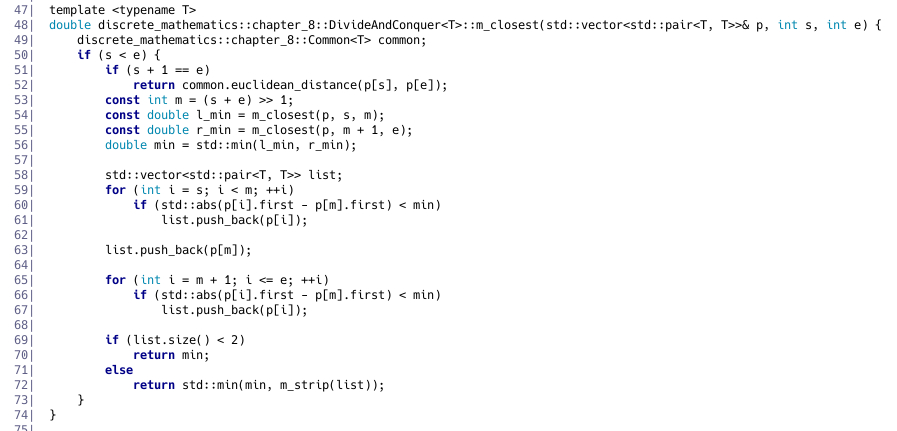
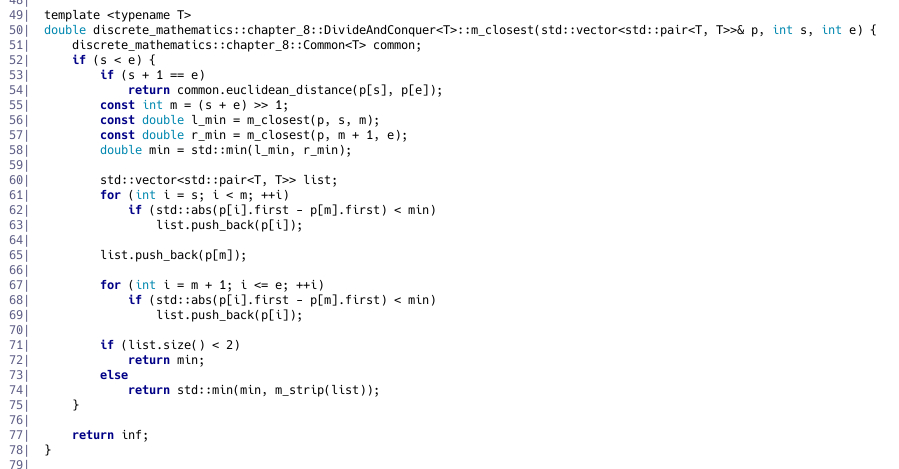
solution 26 code optimization

Changed region(s): [[0.0, 0.0, 0.9677, 1.0], [0.1561, 0.8747, 0.437, 0.9049], [0.0624, 0.9049, 0.1561, 0.935]]

diff --git a/chapter_8_advanced_counting_techniques/8.3_divide_and_conquer_algorithms_and_recurrence_relations/exercises/repo/closest_pair/divide_and_conquer.h b/chapter_8_advanced_counting_techniques/8.3_divide_and_conquer_algorithms_and_recurrence_relations/exercises/repo/closest_pair/divide_and_conquer.h
@@ -12,6 +12,8 @@
 
 #include "common.h"
 
+const int inf = 1 << 30;
+
 namespace discrete_mathematics {
     namespace chapter_8 {
         template <typename T>
@@ -71,6 +73,8 @@ double discrete_mathematics::chapter_8::DivideAndConquer<T>::m_closest(std::vect
         else
             return std::min(min, m_strip(list));
     }
+
+    return inf;
 }
 
 template <typename T>
